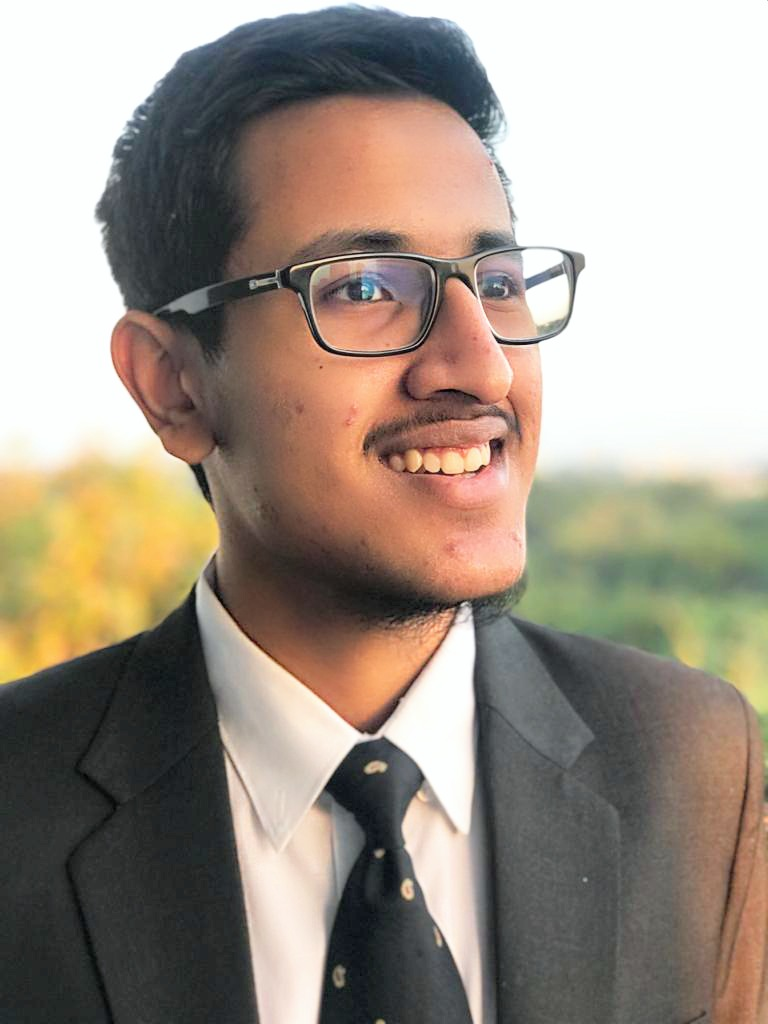
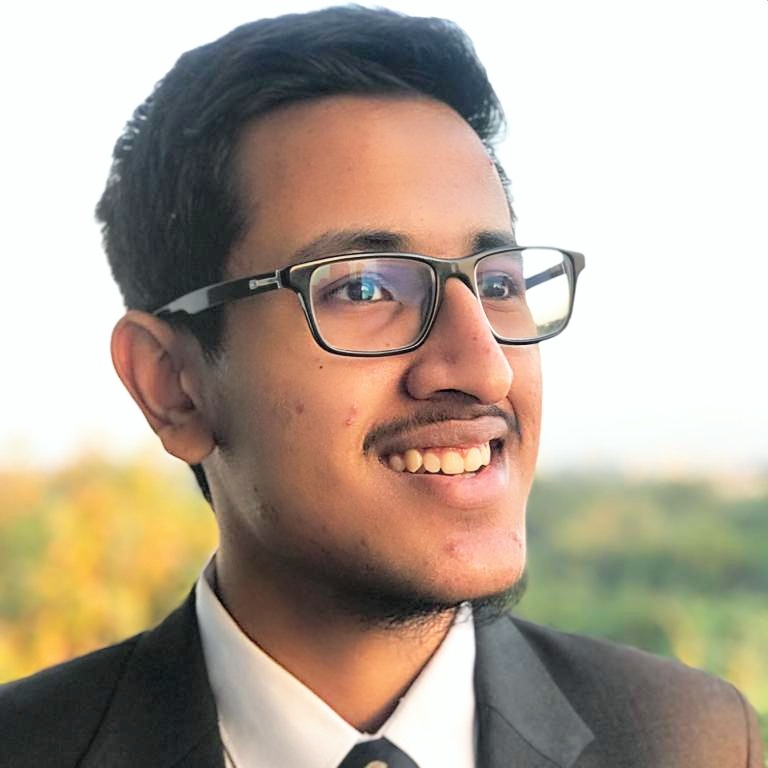
added bio for Atharva

diff --git a/frontend/src/docs/milestone-1/index.html b/frontend/src/docs/milestone-1/index.html
@@ -18,8 +18,7 @@
     </header>
 
     <button
-      class="back-to-top fixed bottom-4 right-4 bg-custom-green-title text-black px-4 py-2 rounded-lg hover:bg-custom-brown-heading 
-      hover:-translate-y-1 font-semibold"
+      class="back-to-top fixed bottom-4 right-4 rounded-lg bg-custom-green-title px-4 py-2 font-semibold text-black hover:-translate-y-1 hover:bg-custom-brown-heading"
     >
       Back to Top
     </button>
@@ -33,32 +32,48 @@
         <div class="grid grid-cols-2 gap-4">
           <!-- Team member 1 -->
           <div class="rounded-lg bg-custom-green-title p-4">
-            <img
-              src="./assets/profile.jpg"
-              alt="Team Member 1"
-              class="mb-2 w-full rounded-lg"
-            />
-            <h2 class="text-lg font-semibold">John Doe</h2>
-            <p class="mb-4 text-sm text-gray-600">Lead Developer</p>
+            <div class="h-80 overflow-hidden p-1">
+              <div class="flex h-full items-end justify-center">
+                <img
+                  src="./assets/AtharvaKaleProfilePicture.jpg"
+                  alt="Atharva Kale"
+                  class="mb-2 w-full rounded-lg object-scale-down"
+                />
+              </div>
+            </div>
+            <h2 class="text-lg font-semibold">Atharva Kale</h2>
+            <p class="mb-4 text-sm text-gray-600">Web Developer</p>
             <p class="text-sm">
-              Lorem ipsum dolor sit amet, consectetur adipiscing elit. Sed do
-              eiusmod tempor incididunt ut labore et dolore magna aliqua.
+              Atharva Kale is a computer science student at the University of
+              Massachusetts Amherst with a strong focus on software engineering
+              and data analysis. His skills include programming languages like
+              C++, Python, and Java, cloud platforms like AWS and GCP, and data
+              analysis techniques using machine learning. Atharva is experienced
+              in both academic and industry settings, with a passion for
+              building innovative web applications.
             </p>
           </div>
 
           <!-- Team member 2 -->
           <div class="rounded-lg bg-custom-green-title p-4">
-            <img
-              src="./assets/TaruMeshramProfessionalPicture.jpg"
-              alt="Team Member 2"
-              class="mb-2 w-full h-600 rounded-lg"
-            />
+            <div class="h-80 overflow-hidden p-1">
+              <div class="flex h-full items-end justify-center">
+                <img
+                src="./assets/TaruMeshramProfessionalPicture.jpg"
+                alt="Taru Meshram"
+                class="h-600 mb-2 w-full rounded-lg"
+              />
+              </div>
+            </div>
             <h2 class="text-lg font-semibold">Taru Meshram</h2>
             <p class="mb-4 text-sm text-gray-600">Web Developer</p>
             <p class="text-sm">
-              I have substantial experience in JavaScript, TypeScript, CSS, HTML, and Python frameworks such as Pytorch. 
-              Interested in both front-end and back-end development, I aim to ensure seamless user interfaces and robust functionality. 
-              I am also interested in leveraging machine learning to enhance data analysis, driving innovation for practical applications. 
+              I have substantial experience in JavaScript, TypeScript, CSS,
+              HTML, and Python frameworks such as Pytorch. Interested in both
+              front-end and back-end development, I aim to ensure seamless user
+              interfaces and robust functionality. I am also interested in
+              leveraging machine learning to enhance data analysis, driving
+              innovation for practical applications.
             </p>
           </div>
 
